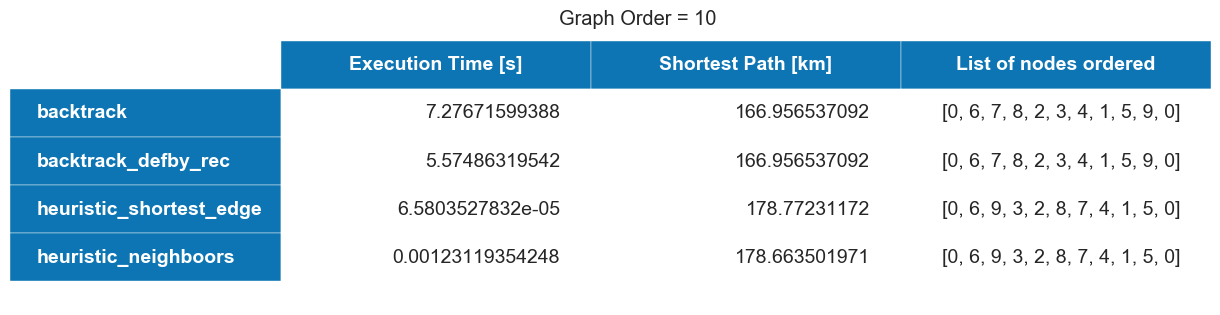
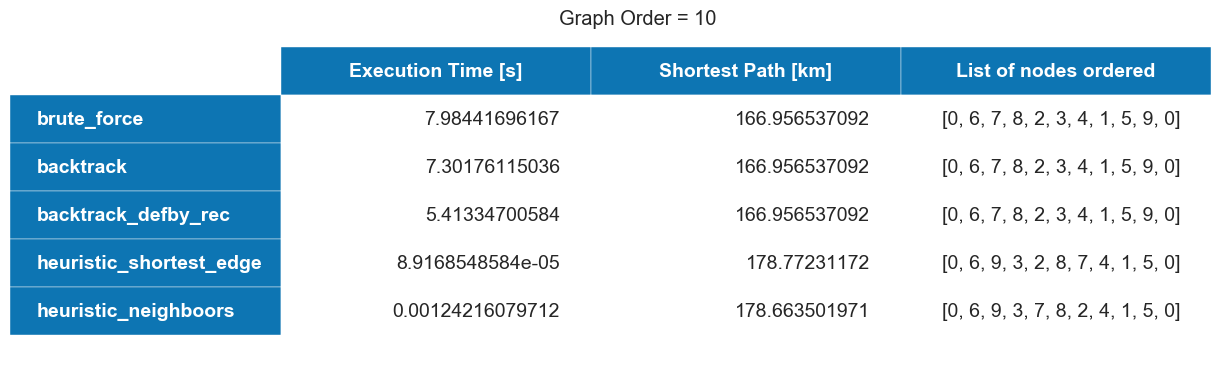
fix

diff --git a/opt_graph.py b/opt_graph.py
@@ -278,31 +278,28 @@ def brute_force(G):
     """
 #{{{
     min_dist = np.inf
+    num_nodes = G.order()
+
+    list_of_nodes = []
     opt_list_of_nodes = []
-    num_nodes = G.order() -1
 
-    # Creating all permutations of [0, 1, 2, ..., n]
-    combinations = itertools.permutations(np.arange(G.order()))
+    perm_array = np.arange(1, num_nodes)
 
-    for comb in combinations:
-        list_of_nodes = np.array(list(comb)) # change type to array
+    for tuples in itertools.permutations(perm_array):
+        list_of_nodes = [0] + list(tuples) + [0]
+
         path_found = verify_path(G, list_of_nodes)
         if path_found is False:
             break
-        # print "list_of_nodes = ", list_of_nodes
 
-        dist_tmp = 0
-        for i in range(0, num_nodes):
-            dist_tmp = dist_tmp + G[list_of_nodes[i]][list_of_nodes[i+1]]['weight']
+        dist = 0
+        for i in range(len(list_of_nodes)-1):
+            dist = dist + G[list_of_nodes[i]][list_of_nodes[i+1]]['weight']
 
-        # Add distance to make a cicle :
-        dist_tmp = dist_tmp + G[list_of_nodes[num_nodes]][list_of_nodes[0]]['weight']
+        if (dist < min_dist):
+            opt_list_of_nodes = list(list_of_nodes)
+            min_dist = dist
 
-        if (dist_tmp < min_dist):
-            opt_list_of_nodes = np.append(list_of_nodes, 0)
-            min_dist = dist_tmp
-
-    opt_list_of_nodes = list(opt_list_of_nodes)
     return min_dist, opt_list_of_nodes
 #}}}
 
@@ -414,7 +411,7 @@ def backtrack(G):
 
         if dist < min_dist:
             min_dist = dist
-            opt_list_of_nodes = list_of_nodes
+            opt_list_of_nodes = list(list_of_nodes)
 
     return min_dist, opt_list_of_nodes
 #}}}
@@ -987,6 +984,7 @@ def main():
     poks_hunted_list = args.poks_hunted.split(",")
     poks_hunted_list = map(str.strip, poks_hunted_list)
     dfs = wrapperDataFrame(pok_nml_few = poks_hunted_list)
+    from IPython import embed; embed() # Enter Ipython
 
     # dfs.add_adress(lat=37.877875, lng=-122.305926)
     dfs.add_adress(lat=args.adress[0], lng=args.adress[1])
@@ -1007,12 +1005,15 @@ def main():
     # Gwrap.compute_shortest_path()
 
     # Preventing brute_force long computation :
-    if n_poks < 7 :
-        algo_nml = [brute_force, backtrack, backtrack_defby_rec,
-                    heuristic_shortest_edge, heuristic_neighboors]
-    else :
-        algo_nml = [backtrack, backtrack_defby_rec,
-                    heuristic_shortest_edge, heuristic_neighboors]
+    # if n_poks < 7 :
+    #     algo_nml = [brute_force, backtrack, backtrack_defby_rec,
+    #                 heuristic_shortest_edge, heuristic_neighboors]
+    # else :
+    #     algo_nml = [backtrack, backtrack_defby_rec,
+    #                 heuristic_shortest_edge, heuristic_neighboors]
+
+    algo_nml = [brute_force, backtrack, backtrack_defby_rec,
+                heuristic_shortest_edge, heuristic_neighboors]
 
     Gwrap.compute_shortest_path(algo_nml = algo_nml)
 
